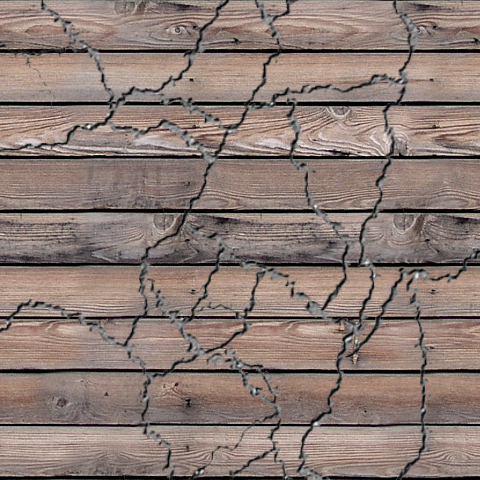
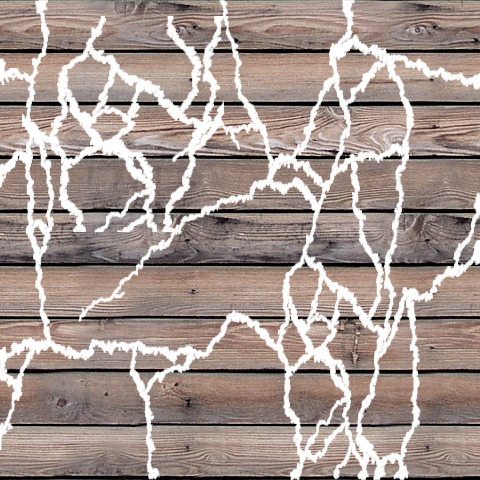
added more cracks

diff --git a/Project/Graphics.cpp b/Project/Graphics.cpp
@@ -5,7 +5,7 @@
 Graphics::Graphics()
 {
 	// Load all the pictures, font and music 
-	m_pictures.resize(22);
+	m_pictures.resize(23);
 	if (!m_pictures[0].loadFromFile("Pictures/wood_icon.png")   ) { std::cerr << "error in loading picture 0\n";};
 	if (!m_pictures[1].loadFromFile("Pictures/rock_icon.png")   ) { std::cerr << "error in loading picture 1\n";};
 	if (!m_pictures[2].loadFromFile("Pictures/ice_icon.jpg")    ) { std::cerr << "error in loading picture 2\n";};
@@ -15,7 +15,7 @@ Graphics::Graphics()
 	if (!m_pictures[6].loadFromFile("Pictures/dragon3_icon3.png")) { std::cerr << "error in loading picture 6\n";}; // viserion
 	if (!m_pictures[7].loadFromFile("Pictures/ground_icon.png") ) { std::cerr << "error in loading picture 7\n";}; // ground
 	if (!m_pictures[8].loadFromFile("Pictures/background_icon.png")) { std::cerr << "error in loading picture 8\n"; };
-	if (!m_pictures[9].loadFromFile("Pictures/backgroundStart_icon.jpeg")) { std::cerr << "error in loading picture 9\n"; };
+	if (!m_pictures[9].loadFromFile("Pictures/backgroundStart_icon1.jpg")) { std::cerr << "error in loading picture 9\n"; };
 	if (!m_pictures[10].loadFromFile("Pictures/level_cleared.jpg")) { std::cerr << "error in loading picture 10\n"; };
 	if (!m_pictures[11].loadFromFile("Pictures/fail.jpg")) { std::cerr << "error in loading picture 11\n"; };
 
@@ -30,10 +30,12 @@ Graphics::Graphics()
 	if (!m_pictures[19].loadFromFile("Pictures/rock_icon_cracked.png")) { std::cerr << "error in loading picture 19\n"; };
 	if (!m_pictures[20].loadFromFile("Pictures/wood_icon_cracked.png")) { std::cerr << "error in loading picture 20\n"; };
 	if (!m_pictures[21].loadFromFile("Pictures/guards_icon4.png")) { std::cerr << "error in loading picture 21\n"; };
+	if (!m_pictures[22].loadFromFile("Pictures/throne.jpg")) { std::cerr << "error in loading picture 22\n"; };
 
 	if (!m_font.loadFromFile("Fonts/planet-benson/planetbe.ttf")) { std::cerr << "error in loading Font\n"; };
 
 	if (!m_music.openFromFile("Audio/Opening.wav")) { std::cerr << "error in loading sound\n"; };
+	m_music.setLoop(true);
 }
 
 const sf::Texture * Graphics::getTexture(int index) const

diff --git a/Project/GameController.cpp b/Project/GameController.cpp
@@ -100,7 +100,10 @@ void GameController::readLevel(ifstream & file)
 void GameController::run()
 {
 	// Start the game
+	Graphics::getInstance().getMusic()->play();
+
 	m_menu.transitionalScreen(m_window, "play", 9);
+	Graphics::getInstance().getMusic()->setVolume(30);
 	m_menu.viewMap(m_window);
 
 	sf::RectangleShape m_back;
@@ -113,10 +116,11 @@ void GameController::run()
 
 	while (m_window.isOpen())
 	{
+
 		if (checkEndLevel())
 		{
 			m_menu.viewMap(m_window);
-			m_menu.transitionalScreen(m_window, "You Won", 9);
+			m_menu.transitionalScreen(m_window, "You Won", 22);
 			// gameOver - levels end 
 			break;
 		}
@@ -139,6 +143,7 @@ void GameController::eventhandler()
 
 		switch (event.type)
 		{
+		
 		case sf::Event::Closed:
 			m_window.close();
 			break;
@@ -162,7 +167,7 @@ void GameController::eventhandler()
 							float mouseX = static_cast <float>(sf::Mouse::getPosition(m_window).x);
 							float mouseY = static_cast <float>(sf::Mouse::getPosition(m_window).y);
 							if(mouseY > m_window.getSize().y - 20)
-								m_dragons[m_dragons.size() - 1]->moveDragon({ mouseX , mouseY });
+								m_dragons[m_dragons.size() - 1]->moveDragon({ mouseX , mouseY }, m_window);
 						}
 					}
 				}
@@ -173,7 +178,7 @@ void GameController::eventhandler()
 			{
 				// The user let go of the dragon (after dragging it)
 				sf::Vector2f mousePos = m_window.mapPixelToCoords(sf::Vector2i(event.mouseButton.x, event.mouseButton.y));
-				m_dragons[m_dragons.size() - 1]->setMousePositionEnd(mousePos);
+				// m_dragons[m_dragons.size() - 1]->setMousePositionEnd(mousePos);
 				m_dragons[m_dragons.size() - 1]->launchDragon();
 			}
 			break;
@@ -183,7 +188,7 @@ void GameController::eventhandler()
 			{
 				float mouseX = static_cast <float>(sf::Mouse::getPosition(m_window).x);
 				float mouseY = static_cast <float>(sf::Mouse::getPosition(m_window).y);
-				m_dragons[m_dragons.size() - 1]->moveDragon({ mouseX , mouseY });
+				m_dragons[m_dragons.size() - 1]->moveDragon({ mouseX , mouseY }, m_window);
 			}
 			break;
 

diff --git a/Project/Dragons.cpp b/Project/Dragons.cpp
@@ -35,18 +35,21 @@ void Dragons::launchDragon()
 {
 	// Activate the dragon launch sequence
 	m_body->SetType(b2_dynamicBody);
-	b2Vec2 vec({ (float32)((m_mousePositionStart.x - m_mousePositionEnd.x) * 25 / 100) , (float32)((m_mousePositionStart.y - m_mousePositionEnd.y) * 25 / 100)});
+	b2Vec2 vec({ (float32)((m_mousePositionStart.x - m_sprite.getPosition().x) * 25 / 100) , (float32)((m_mousePositionStart.y - m_sprite.getPosition().y) * 25 / 100)});
 	m_body->SetLinearVelocity(vec);
 	m_start = false;
 	m_dead = true;
 }
 
-void Dragons::moveDragon(sf::Vector2f position)
+void Dragons::moveDragon(sf::Vector2f position, sf::RenderWindow & window)
 {
 	// Causes dragon to follow mouse - looks like user is dragging the dragon
-	std::cout << "sprite x:" << m_sprite.getPosition().x << " y:" << m_sprite.getPosition().x << std::endl;
-	m_body->SetTransform(b2Vec2{ (position.x)/ SCALE, (position.y) / SCALE }, 0);
-	std::cout << "mouse x:" << position.x << " y:" << position.y << std::endl;
+	// std::cout << "sprite x:" << m_sprite.getPosition().x << " y:" << m_sprite.getPosition().x << std::endl;
+	if ((m_mousePositionStart.x - position.x) > 1 && (m_mousePositionStart.y - position.y) < 150)
+	{
+		m_body->SetTransform(b2Vec2{ (position.x) / SCALE, (position.y) / SCALE }, 0);
+	}
+	// std::cout << "mouse x:" << position.x << " y:" << position.y << std::endl;
 }
 
 Dragons::~Dragons()

diff --git a/Project/Dragons.h b/Project/Dragons.h
@@ -13,12 +13,12 @@ public:
 	// bool getIfUsed() { return m_used; }
 	void setActive(float x, float y);
 	void setMousePositionStart(sf::Vector2f position) { if (!m_start) { m_mousePositionStart = position; m_start = true; } }
-	void setMousePositionEnd(sf::Vector2f position) { m_mousePositionEnd = position; }
+	// void setMousePositionEnd(sf::Vector2f position) { m_mousePositionEnd = position; }
 	sf::Vector2f getMousePositionStart() { return m_mousePositionStart; }
-	sf::Vector2f getMousePositionEnd() { return m_mousePositionEnd; }
+	// sf::Vector2f getMousePositionEnd() { return m_mousePositionEnd; }
 	bool checkMovement();
 	void launchDragon();
-	void moveDragon(sf::Vector2f position);
+	void moveDragon(sf::Vector2f position, sf::RenderWindow & window);
 	~Dragons();
 	virtual void move();
 
@@ -37,7 +37,7 @@ protected:
 	bool m_start = false;
 	// bool m_used = false;
 	sf::Vector2f m_mousePositionStart;
-	sf::Vector2f m_mousePositionEnd;
+	// sf::Vector2f m_mousePositionEnd;
 	sf::Clock m_clock;
 
 };

diff --git a/Project/GameObject.cpp b/Project/GameObject.cpp
@@ -87,6 +87,19 @@ void GameObject::print(sf::RenderWindow & window)
 
 		}
 	}
+	if (d && d->getActive() && d->getIfStart())
+	{
+		sf::Color brown(102, 51, 0);
+
+		sf::Vertex line1[2] = { sf::Vertex(sf::Vector2f(window.getSize().x / 6, window.getSize().y / 6 *5),  brown) ,
+			sf::Vertex(sf::Vector2f(d->getSprite().getPosition().x + 25,d->getSprite().getPosition().y + 25),  brown)};
+
+		sf::Vertex line2[2] = { sf::Vertex(sf::Vector2f(window.getSize().x / 5, window.getSize().y / 6 * 5) , brown) ,
+			sf::Vertex(sf::Vector2f(d->getSprite().getPosition().x + 25,d->getSprite().getPosition().y + 25), brown) };
+		
+		window.draw(line1, 2, sf::Lines);
+		window.draw(line2, 2, sf::Lines);
+	}
 
 	m_sprite.setPosition(m_body->GetPosition().x *SCALE, m_body->GetPosition().y *SCALE);
 	m_sprite.setRotation(m_body->GetAngle() * 180 / b2_pi);

diff --git a/Project/Ice.cpp b/Project/Ice.cpp
@@ -1,6 +1,8 @@
 #include "Ice.h"
 #include <iostream>
 #include "Guards.h"
+#include "Rock.h"
+#include "Wood.h"
 
 
 Ice::Ice(b2World & world, int width, sf::Vector2i position, bool circle, sf::Vector2u windowSize)
@@ -37,20 +39,24 @@ void Ice::collision(Rhaegal & object)
 
 void Ice::collision(Rock & object)
 {
-	// nothing 
+	updateLife(1);
+	object.updateLife(1);
 }
 
 void Ice::collision(Ice & object)
 {
-	// nothing 
+	updateLife(1);
+	object.updateLife(1);
 }
 
 void Ice::collision(Wood & object)
 {
-	// nothing 
+	updateLife(1);
+	object.updateLife(1);
 }
 
 void Ice::collision(Guards & object)
 {
+	updateLife(1);
 	object.collision(*this);
 }

diff --git a/Project/Rock.cpp b/Project/Rock.cpp
@@ -1,5 +1,8 @@
 #include "Rock.h"
 #include "Guards.h"
+#include "Ice.h"
+#include "Wood.h"
+
 
 Rock::Rock(b2World & world, int width, sf::Vector2i position, bool circle, sf::Vector2u windowSize)
 	: Wall(world, width, position, circle, windowSize)
@@ -36,17 +39,24 @@ void Rock::collision(Rhaegal & object)
 
 void Rock::collision(Rock & object)
 {
+	updateLife(1);
+	object.updateLife(1);
 }
 
 void Rock::collision(Ice & object)
 {
+	updateLife(1);
+	object.updateLife(1);
 }
 
 void Rock::collision(Wood & object)
 {
+	updateLife(1);
+	object.updateLife(1);
 }
 
 void Rock::collision(Guards & object)
 {
+	updateLife(1);
 	object.collision(*this);
 }

diff --git a/Project/Menu.cpp b/Project/Menu.cpp
@@ -15,7 +15,7 @@ Menu::~Menu()
 void Menu::transitionalScreen(sf::RenderWindow & window, string text, int index)
 {
 	// Transitional screens between levels
-	Graphics::getInstance().getMusic()->play();
+	// Graphics::getInstance().getMusic()->play();
 	sf::RectangleShape playButton;
 	sf::Text playText;
 	sf::Vector2f mousePosition;
@@ -69,7 +69,7 @@ void Menu::transitionalScreen(sf::RenderWindow & window, string text, int index)
 			}
 		}
 	}
-	Graphics::getInstance().getMusic()->setVolume(20);
+	// Graphics::getInstance().getMusic()->setVolume(20);
 	// Graphics::getInstance().stopMusic();
 // background.setTexture(graphics.getTexture(12));
 }

diff --git a/Project/Wood.cpp b/Project/Wood.cpp
@@ -1,5 +1,7 @@
 #include "Wood.h"
 #include "Guards.h"
+#include "Rock.h"
+#include "Ice.h"
 
 
 Wood::Wood(b2World & world, int width, sf::Vector2i postion, bool circle, sf::Vector2u windowSize)
@@ -38,20 +40,24 @@ void Wood::collision(Rhaegal & object)
 
 void Wood::collision(Rock & object)
 {
-	// nothing
+	updateLife(1);
+	object.updateLife(1);
 }
 
 void Wood::collision(Ice & object)
 {
-	// nothing
+	updateLife(1);
+	object.updateLife(1);
 }
 
 void Wood::collision(Wood & object)
 {
-	// nothing
+	updateLife(1);
+	object.updateLife(1);
 }
 
 void Wood::collision(Guards & object)
 {
+	updateLife(1);
 	object.collision(*this);
 }

diff --git a/Project/NonMoveable.cpp b/Project/NonMoveable.cpp
@@ -17,7 +17,7 @@ void NonMoveable::updateLife(int i)
 	m_life -= i;
 	if (m_life <= 0)
 		m_dead = true;
-	if (m_life < 3)
+	if (m_life < 4)
 		updateSprite();
 }
 

diff --git a/Project/Guards.cpp b/Project/Guards.cpp
@@ -81,5 +81,6 @@ void Guards::collision(Wood & object)
 
 void Guards::collision(Guards & object)
 {
-	//
+	updateLife(1);
+	object.updateLife(1);
 }

diff --git a/Project/NonMoveable.h b/Project/NonMoveable.h
@@ -23,6 +23,6 @@ public:
 	virtual void collision(Guards & object) override;
 
 protected:
-	float m_life = 3;
+	float m_life = 10;
 };
 
